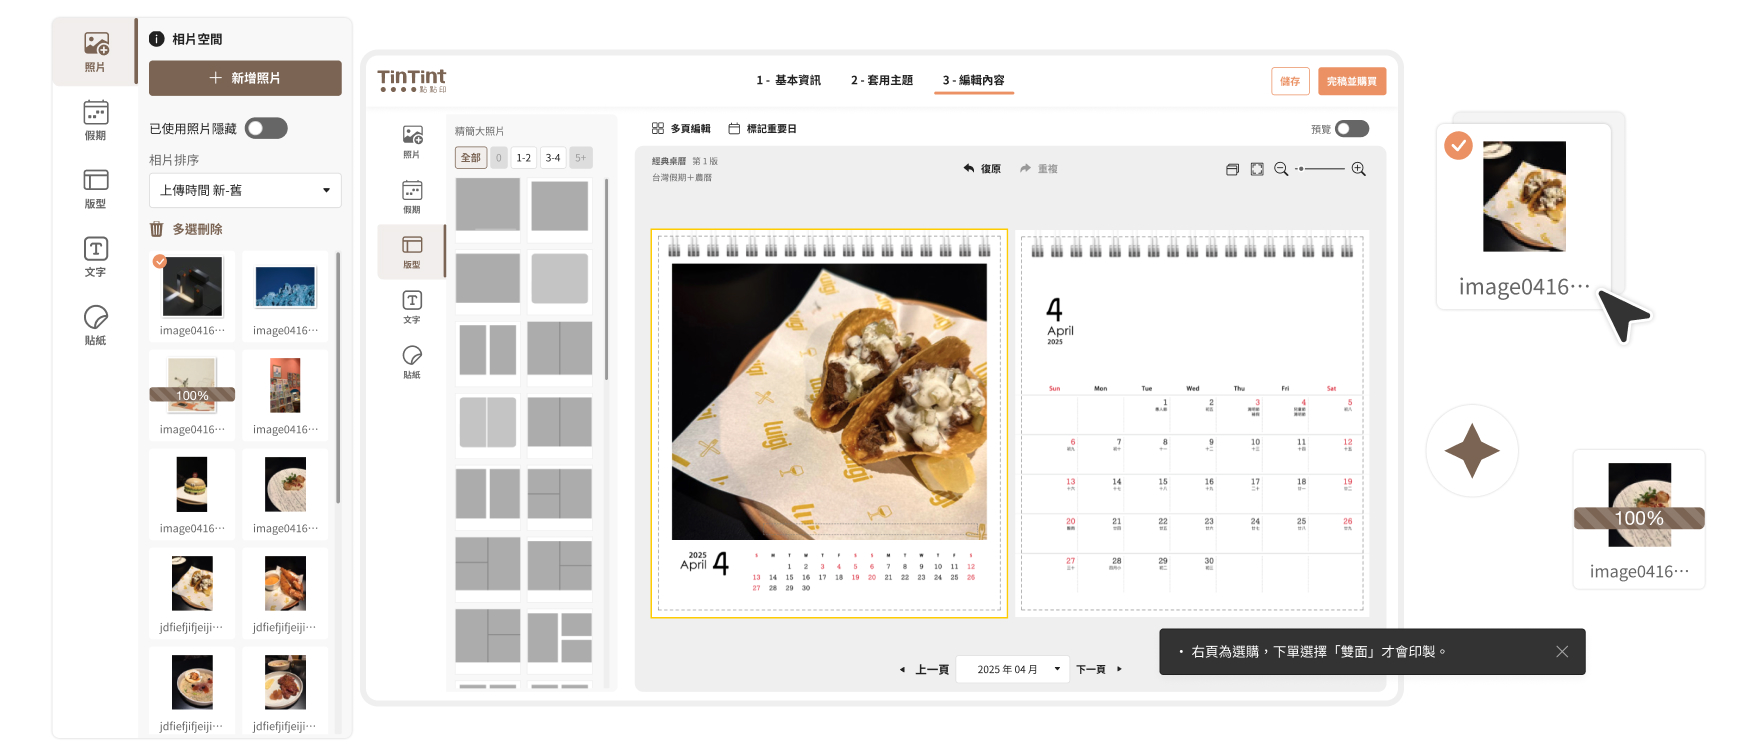
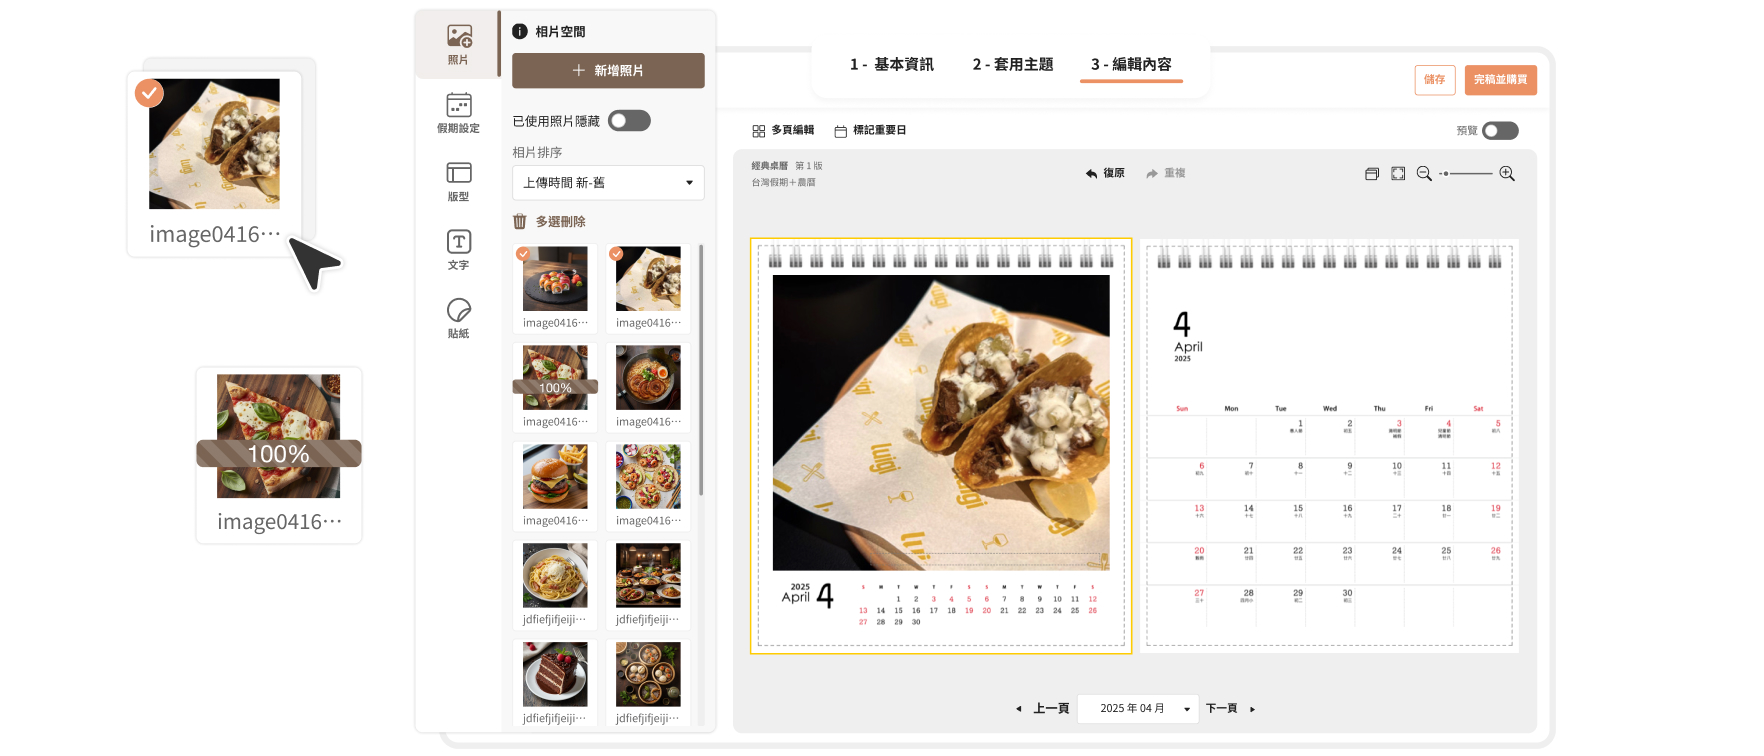
feat: graphic-design 頁新增品牌識別卡片與埋點、editor2 移除 SaaS tag、更新 editor2 圖片

diff --git a/graphic-design/index.html b/graphic-design/index.html
@@ -60,7 +60,7 @@
             <div class="hire-hero-text">
               <span class="hire-badge">2021–2025</span>
               <h1>Graphic Design</h1>
-              <p class="hire-subtitle" style="color:#fff">Illustration ｜ Social Media Post ｜ Banner ｜ YT Thumbnail</p>
+              <p class="hire-subtitle" style="color:#fff">Branding ｜ Illustration ｜ Social Media Post ｜ Banner ｜ YT Thumbnail</p>
             </div>
             <div class="hire-hero-strip" aria-hidden="true">
               <div class="hire-strip-inner">
@@ -82,7 +82,17 @@
         </section>
         <!-- End banner -->
     <!-- Start 概述 -->
-    <div id="overview" class="top-container two-column-grid flex-v-24">
+    <div id="overview" class="top-container three-column-grid flex-v-24">
+        <div class="item item-bg-grey">
+          <div class="content-header">
+              <span class="vertical-decorator"></span>
+              <h4>品牌識別設計</h4>
+          </div>
+          <div>
+            <p class="bordered-title">核心價值、視覺系統、市場定位</p>
+            <p class="para">深入提煉企業核心精神，打造具備高辨識度與延展性的專屬視覺語彙。從標誌設計到完整品牌規範，協助企業在市場中建立專業且一致的形象。</p>
+          </div>
+        </div>
         <div class="item item-bg-grey">
           <div class="content-header">
               <span class="vertical-decorator"></span>
@@ -114,17 +124,17 @@
               <div class="gd-frame-card gd-frame-card--title">
                 <p class="gd-frame-card__title">Branding</p>
                 <div class="gd-brand-thumbs">
-                  <a class="gd-brand-thumb" href="https://www.behance.net/gallery/155459801/Senseflow-Logo-Branding" target="_blank" rel="noopener noreferrer"><img src="/images/graphic-design/img_logo3.svg" alt="Senseflow"></a>
-                  <a class="gd-brand-thumb" href="https://www.behance.net/gallery/155218105/Norby-Logo-Branding" target="_blank" rel="noopener noreferrer"><img src="/images/graphic-design/img_logo4.svg" alt="Norby"></a>
-                  <a class="gd-brand-thumb" href="https://www.behance.net/gallery/155214605/LUCY-Logo-Branding" target="_blank" rel="noopener noreferrer"><img src="/images/graphic-design/img_logo5.svg" alt="LUCY"></a>
+                  <a class="gd-brand-thumb" href="https://www.behance.net/gallery/155459801/Senseflow-Logo-Branding" target="_blank" rel="noopener noreferrer" onclick="gtag('event','click_behance',{project_name:'Senseflow',location:'branding_thumb'})"><img src="/images/graphic-design/img_logo3.svg" alt="Senseflow"></a>
+                  <a class="gd-brand-thumb" href="https://www.behance.net/gallery/155218105/Norby-Logo-Branding" target="_blank" rel="noopener noreferrer" onclick="gtag('event','click_behance',{project_name:'Norby',location:'branding_thumb'})"><img src="/images/graphic-design/img_logo4.svg" alt="Norby"></a>
+                  <a class="gd-brand-thumb" href="https://www.behance.net/gallery/155214605/LUCY-Logo-Branding" target="_blank" rel="noopener noreferrer" onclick="gtag('event','click_behance',{project_name:'LUCY',location:'branding_thumb'})"><img src="/images/graphic-design/img_logo5.svg" alt="LUCY"></a>
                 </div>
               </div>
-              <a class="gd-frame-card" href="https://www.behance.net/gallery/155217663/Peaceful-Energy_Logo-Branding" target="_blank" rel="noopener noreferrer">
+              <a class="gd-frame-card" href="https://www.behance.net/gallery/155217663/Peaceful-Energy_Logo-Branding" target="_blank" rel="noopener noreferrer" onclick="gtag('event','click_behance',{project_name:'Peaceful-Energy',location:'branding_card'})">
                 <p class="gd-frame-card__label">Peaceful Energy <svg class="gd-label-icon" viewBox="0 0 16 16" fill="none" xmlns="http://www.w3.org/2000/svg" aria-hidden="true"><path d="M6 3L11 8L6 13" stroke="currentColor" stroke-width="1.5" stroke-linecap="round" stroke-linejoin="round"/></svg></p>
                 <img class="gd-frame-card__img gd-frame-card__img--landscape" src="/images/graphic-design/img_logo1.jpg" alt="">
               </a>
             </div>
-            <a class="gd-frame-card" href="https://www.hyarks.com/" target="_blank" rel="noopener noreferrer">
+            <a class="gd-frame-card" href="https://www.hyarks.com/" target="_blank" rel="noopener noreferrer" onclick="gtag('event','click_behance',{project_name:'Hyarks',location:'branding_card'})">
               <p class="gd-frame-card__label">Hyarks <svg class="gd-label-icon" viewBox="0 0 16 16" fill="none" xmlns="http://www.w3.org/2000/svg" aria-hidden="true"><path d="M6 3L11 8L6 13" stroke="currentColor" stroke-width="1.5" stroke-linecap="round" stroke-linejoin="round"/></svg></p>
               <img class="gd-frame-card__img" src="/images/graphic-design/img_logo2.jpg" alt="">
             </a>

diff --git a/js/lightbox.js b/js/lightbox.js
@@ -19,19 +19,24 @@
     // 1. 點擊圖片觸發 Lightbox
     document.querySelectorAll('.lightbox-trigger').forEach(el => {
         el.addEventListener('click', function () {
-            
+
             // 檢查點擊的元素是否是 <img> 標籤
             if (this.tagName.toLowerCase() === 'img') {
                 lightboxImg.src = this.src;
             } else {
-                // 如果 .lightbox-trigger 是一個父容器 (例如 <div>)，
-                // 您可能需要從內部查找圖片的 src。這裡假設 src 是直接在 <img> 上。
                 const img = this.querySelector('img');
                 if (img) {
                     lightboxImg.src = img.src;
                 }
             }
-            
+
+            // GA4 追蹤：取檔名作為 image_name
+            if (typeof gtag === 'function') {
+                const src = this.tagName.toLowerCase() === 'img' ? this.src : (this.querySelector('img') || {}).src || '';
+                const imageName = src.split('/').pop().replace(/\.[^.]+$/, '');
+                gtag('event', 'click_image_lightbox', { image_name: imageName });
+            }
+
             // 顯示 Lightbox
             lightbox.classList.add('active');
         });

diff --git a/editor2/index.html b/editor2/index.html
@@ -124,7 +124,7 @@
             <div class="overview-left">
               <h2 class="title">概述 <span class="sm-title">Overview</span></h2>
               <h3 class="title text-primary">Editor2 - 相片書線上編輯器</h3>
-              <h5 class="title">#B2C #SaaS #POD（客製化印刷服務）#RWD Website</h5>
+              <h5 class="title">#B2C #POD（客製化印刷服務）#RWD Website</h5>
               <p class="para">
                 產品服務｜點點印推出的線上編輯器，會員用戶可透過此平台製作各式產品，例如相片書、卡片、邀請卡、婚禮書約與精裝寫真本等，讓使用者能輕鬆完成編輯，並一鍵下單印製專屬作品。
               </p>